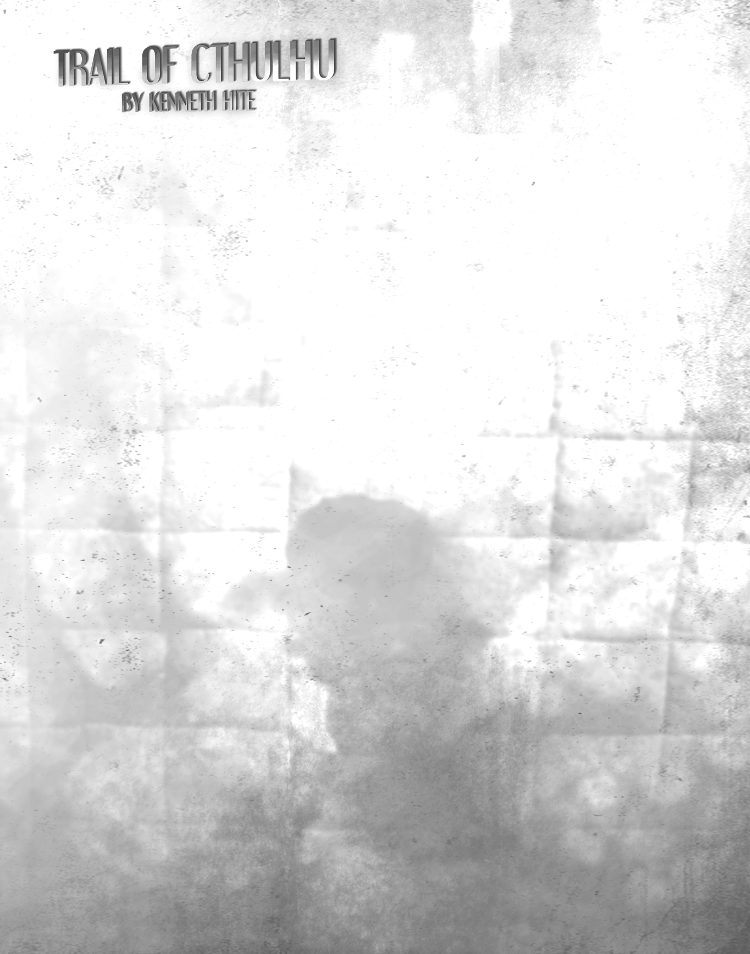
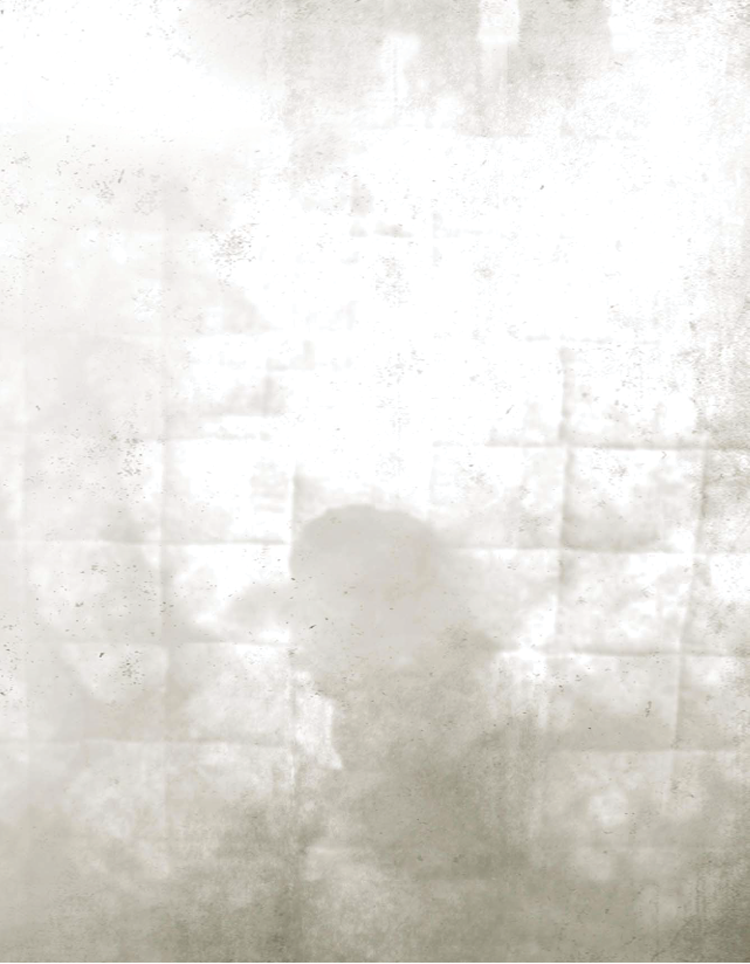
add header image

diff --git a/GUMSHOE/GUMSHOE.css b/GUMSHOE/GUMSHOE.css
@@ -1,4 +1,9 @@
-.sheet-section { /* width: min: 120px; max: 630px; height: min: 150px; max: 900px; */
+.sheet-container {
+	padding: 15px;
+}
+
+.sheet-section,
+.sheet-header { /* width: min: 120px; max: 630px; height: min: 150px; max: 900px; */
 	display: inline-block;
 	position: relative;
 }
@@ -30,9 +35,15 @@
 
 .sheet-cthulhu-container {
 	width: 750px;
-	height: 954px;
+	height: 964px;
 	font-family: 'Rockwell', 'Courier New', 'Times New Roman', serif;
 	background-image: url('https://raw.githubusercontent.com/wing-it/roll20-character-sheets/gumshoe/GUMSHOE/images/toc/background.png');
+}
+
+.sheet-cthulhu-header {
+	background-image: url('https://raw.githubusercontent.com/wing-it/roll20-character-sheets/gumshoe/GUMSHOE/images/toc/toc-header.png');
+	width: 300px;
+	height: 90px;
 }
 
 .sheet-cthulhu-section { /* width: min: 120px; max: 630px; height: min: 150px; max: 900px; */

diff --git a/GUMSHOE/GUMSHOE.html b/GUMSHOE/GUMSHOE.html
@@ -1,6 +1,9 @@
-<div class="cthulhu-container">
+<div class="container cthulhu-container">
 
-	<div class="section cthulhu-section" style="width: 200px; top: 150px; left: 50px">
+	<div class="header cthulhu-header">
+	</div>
+
+	<div class="section cthulhu-section" style="width: 200px;">
 		<div class="content" style="">
 			<table>
 				<tr>
